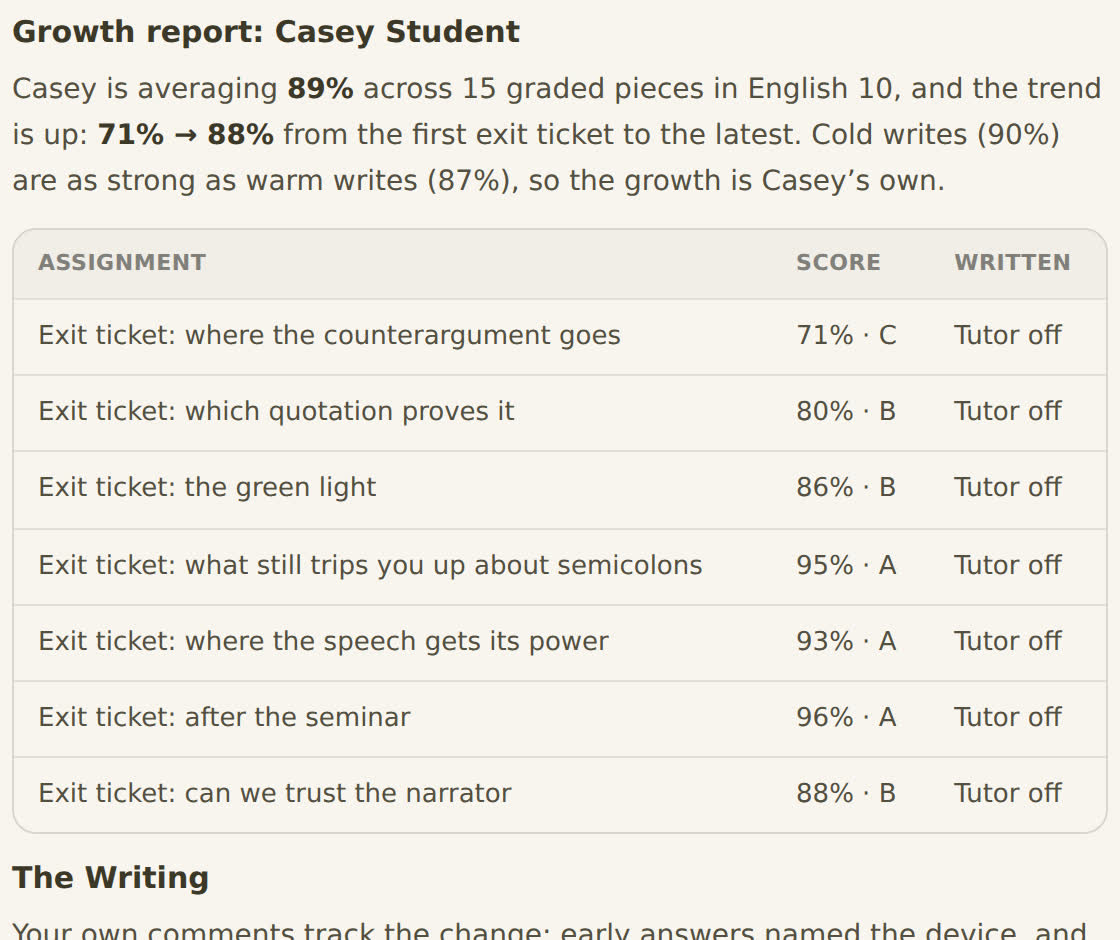
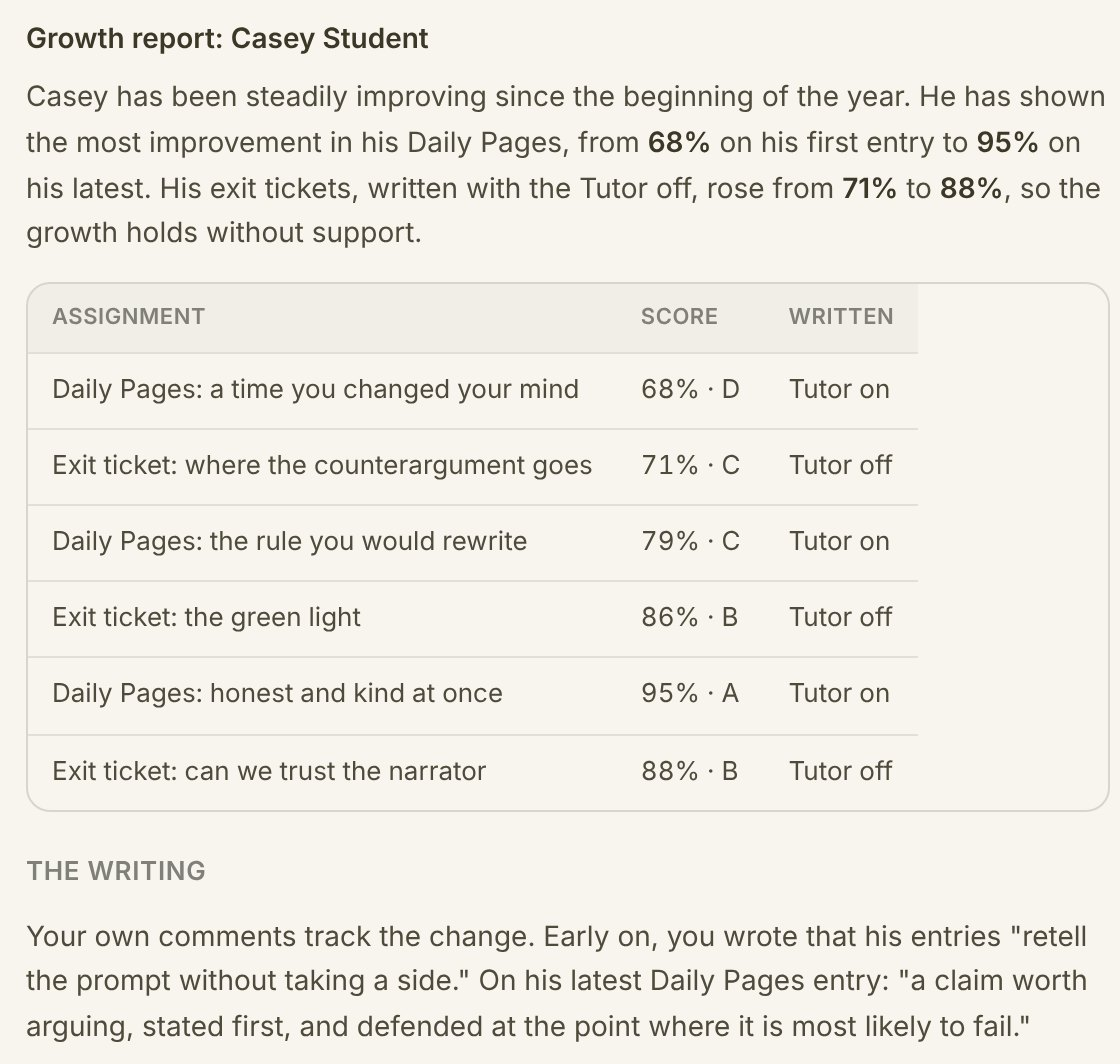
Reporter guide: Casey's growth report with prose, Oxford comma pass
The hero is a new still of Casey's growth report: prose on how Casey has
improved since the start of the year, most in Daily Pages, then the
score table and the start of The Writing. It was recorded in Reporter
with a scripted reply, so the footer now says the replies were scripted
without claiming they use the demo class's numbers.

Oxford comma pass over the guide's copy, alt text, and will/won't lists:
"averages, or student names".

Claude-Session: https://claude.ai/code/session_01SzJfsJkC7KF62JUAiVQSG3

diff --git a/services/web-app/app/routes/app.reporter_.how-it-works/route.tsx b/services/web-app/app/routes/app.reporter_.how-it-works/route.tsx
@@ -46,7 +46,7 @@ const WONT = [
   'Change, give, or release grades.',
   'See unreleased grades, drafts, or ungraded work.',
   'See other teachers’ classes.',
-  'Make up grades, averages or student names.',
+  'Make up grades, averages, or student names.',
   'Save a growth plan unless you click Save.',
   'Talk to students. It’s for teachers only.',
 ];
@@ -74,9 +74,9 @@ export default function ReporterHowItWorksRoute() {
         lede="Reporter turns your released grades into class reports, student growth reports, and growth plans."
         image={{
           src: `${MEDIA}/hero.jpg`,
-          alt: 'A Reporter growth report for one student: an 89% average, a table of exit ticket scores that climb from a C to mostly As, and the start of a section called The Writing.',
+          alt: 'A Reporter growth report for one student. It says Casey has been steadily improving since the beginning of the year, with the most improvement in Daily Pages, from 68% to 95%. A table lists Daily Pages entries and exit tickets with scores and whether the Tutor was on or off, and a section called The Writing quotes the teacher’s own comments.',
           width: 1120,
-          height: 940,
+          height: 1064,
           caption: 'A growth report for one student in English 10',
         }}
       />
@@ -205,7 +205,7 @@ export default function ReporterHowItWorksRoute() {
       <WillWont will={WILL} wont={WONT} />
 
       <GuideFooter
-        note="Clips use demo classes. Reporter’s replies in them were scripted for the recording from the demo class’s real numbers."
+        note="Clips and screenshots use demo classes. Reporter’s replies in them were scripted for the recording."
         startTo="/app/reporter"
         startLabel="Ask Reporter"
       />
